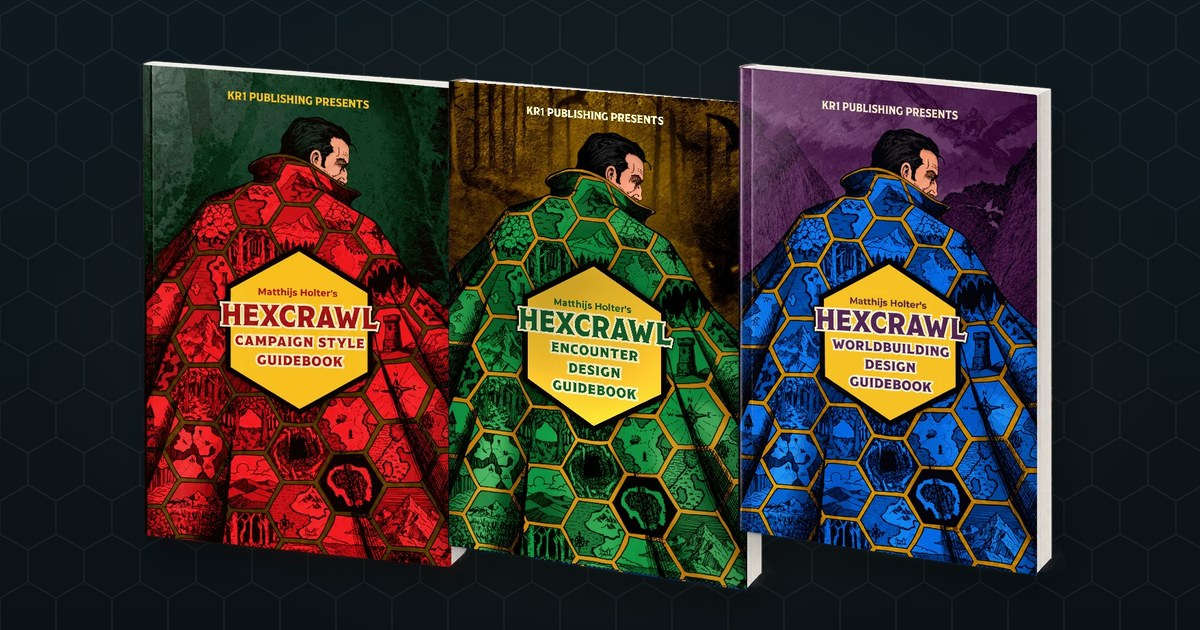
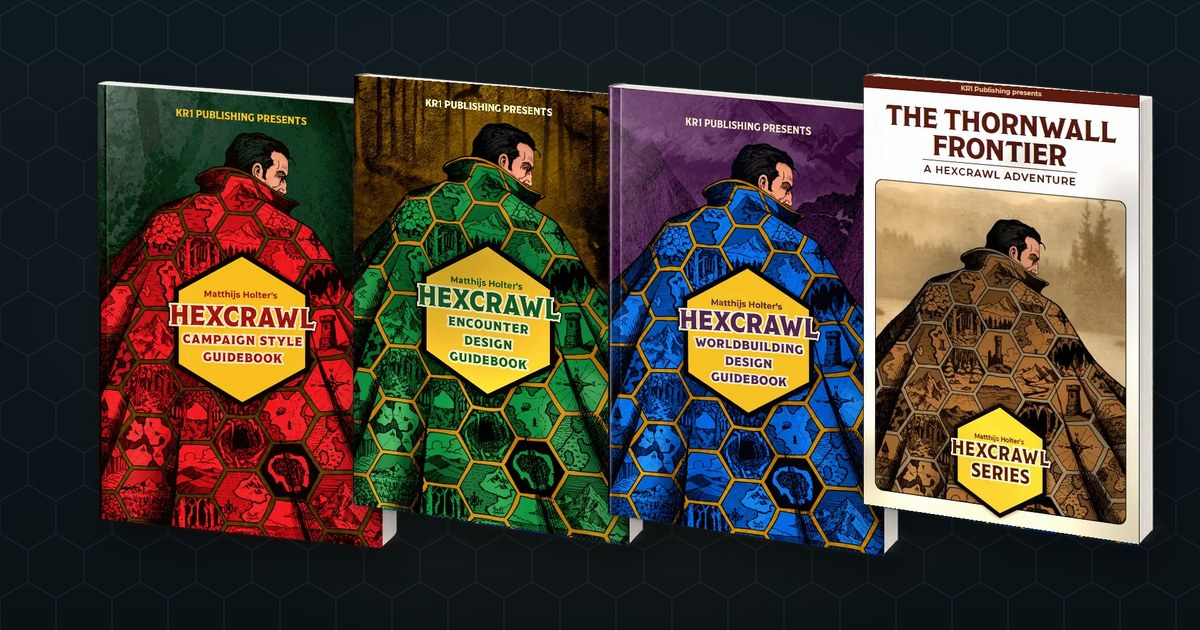
Hexcrawl page: add The Thornwall Frontier cover and mockup, four books in hero and share image
Claude-Session: https://claude.ai/code/session_01Go6ret7jCLgDqqds4EMTee

diff --git a/hexcrawl.html b/hexcrawl.html
@@ -13,7 +13,7 @@
 <meta property="og:image" content="https://www.kr1publishing.com/img/series/og-hexcrawl.jpg">
 <meta property="og:image:width" content="1200">
 <meta property="og:image:height" content="630">
-<meta property="og:image:alt" content="The three Hexcrawl guidebooks by Matthijs Holter">
+<meta property="og:image:alt" content="The four Hexcrawl books by Matthijs Holter">
 <meta property="og:url" content="https://www.kr1publishing.com/hexcrawl">
 <meta name="twitter:card" content="summary_large_image">
 <meta name="twitter:title" content="Hexcrawl: wilderness campaigns where the journey is the adventure">
@@ -130,9 +130,10 @@ footer a{color:var(--acc);text-decoration:none;margin:0 10px;display:inline-bloc
 footer a:hover{text-decoration:underline}
 
 
-.fan img:nth-child(1){left:2%;transform:rotate(-7deg);bottom:8px}
-.fan img:nth-child(2){left:27%;transform:rotate(0);bottom:26px;z-index:2}
-.fan img:nth-child(3){left:52%;transform:rotate(7deg);bottom:8px;z-index:3}
+.fan img:nth-child(1){left:0;transform:rotate(-8deg);bottom:10px}
+.fan img:nth-child(2){left:18%;transform:rotate(-2deg);bottom:22px;z-index:2}
+.fan img:nth-child(3){left:36%;transform:rotate(4deg);bottom:12px;z-index:3}
+.fan img:nth-child(4){left:54%;transform:rotate(9deg);bottom:0;z-index:4}
 .hexmap{display:grid;grid-template-columns:repeat(3,1fr);gap:14px 10px;max-width:640px;margin:36px auto -40px}
 .hexmap .hx{aspect-ratio:1/1.12;clip-path:polygon(50% 0,100% 25%,100% 75%,50% 100%,0 75%,0 25%);background:var(--card);display:flex;flex-direction:column;align-items:center;justify-content:center;text-align:center;padding:0 16%;text-decoration:none;transition:background .15s}
 .hexmap .hx:nth-child(-n+3){transform:translateX(-25%)}
@@ -183,6 +184,7 @@ footer a:hover{text-decoration:underline}
     <img src="/img/series/hexcrawl-campaign.webp" alt="Hexcrawl Campaign Style Guidebook" width="517" height="760">
     <img src="/img/series/hexcrawl-encounter.webp" alt="Hexcrawl Encounter Design Guidebook" width="487" height="760">
     <img src="/img/series/hexcrawl-worldbuilding.webp" alt="Hexcrawl Worldbuilding Design Guidebook" width="487" height="760">
+    <img src="/img/series/hexcrawl-thornwall.webp" alt="The Thornwall Frontier" width="487" height="760">
   </div>
 </div></div></header>
 
@@ -225,7 +227,7 @@ footer a:hover{text-decoration:underline}
 
 <section id="books"><div class="in">
   <div class="center"><div class="kicker">The books</div><h2>What is <em>in each one</em></h2></div>
-  <div class="books"><article class="book" id="b1"><img src="/img/covers/hexcrawl-campaign.jpg" alt="Hexcrawl Campaign Style Guidebook cover" loading="lazy"><div><div class="num">Book one</div><h3>Hexcrawl: Campaign Style Guidebook</h3><p>The method. How to build a map worth crossing, what a day of travel costs a party, and how to keep the journey interesting at the table.</p><ul><li>A complete hexcrawl campaign framework and six core principles</li><li>Step-by-step exploration turn procedures</li><li>Tools for hex maps, keyed locations and encounter tables</li><li>A sandbox starter region for immediate play</li></ul><a class="btn" href="https://www.drivethrurpg.com/en/product/562366?affiliate_id=927841&src=site_hexcrawl" target="_blank" rel="noopener">See it on DriveThruRPG</a><div class="meta">62 pages &middot; 2,650+ sold &middot; PDF and softcover</div></div></article><article class="book" id="b2"><img src="/img/covers/hexcrawl-encounter.jpg" alt="Hexcrawl Encounter Design Guidebook cover" loading="lazy"><div><div class="num">Book two</div><h3>Hexcrawl: Encounter Design Guidebook</h3><p>What the party meets out there, and why it is there. Encounters that reveal the world, force choices and connect across sessions.</p><ul><li>The Encounter Trifecta, a quick test for every encounter</li><li>The 60/40 rule for random encounter tables</li><li>The layering method for linking encounters across sessions</li><li>Pacing encounters across the exploration day</li></ul><a class="btn" href="https://www.drivethrurpg.com/en/product/566553?affiliate_id=927841&src=site_hexcrawl" target="_blank" rel="noopener">See it on DriveThruRPG</a><div class="meta">2,100+ sold &middot; PDF and softcover</div></div></article><article class="book" id="b3"><img src="/img/covers/hexcrawl-worldbuilding.jpg" alt="Hexcrawl Worldbuilding Design Guidebook cover" loading="lazy"><div><div class="num">Book three</div><h3>Hexcrawl: Worldbuilding Design Guidebook</h3><p>A region a table can believe in, built in an evening. Every hex points to at least one other: what caused it, or what it causes.</p><ul><li>The six-step build, a playable region in about ninety minutes</li><li>Three facts and a twist for session zero</li><li>Faction traces players find as physical evidence</li><li>The Greymire, a worked example from blank page to session one</li></ul><a class="btn" href="https://www.drivethrurpg.com/en/product/575993?affiliate_id=927841&src=site_hexcrawl" target="_blank" rel="noopener">See it on DriveThruRPG</a><div class="meta">76 pages &middot; 1,650+ sold &middot; PDF and softcover</div></div></article><article class="book" id="b4"><div class="ph">The Thornwall Frontier<br><br>Book four</div><div><div class="num">Book four</div><h3>The Thornwall Frontier</h3><p>Matthijs Holter's own starting region. Thirty hexes, ready to run with the method from the first three books, so you can sit down and play.</p><ul><li>A 30-hex frontier region built with the series method</li><li>Ready for session one</li><li>Works with books one to three, or on its own</li></ul><a class="btn" href="https://www.drivethrurpg.com/en/product/584427?affiliate_id=927841&src=site_hexcrawl" target="_blank" rel="noopener">See it on DriveThruRPG</a><div class="meta">450+ sold &middot; PDF out now, print coming</div></div></article></div>
+  <div class="books"><article class="book" id="b1"><img src="/img/covers/hexcrawl-campaign.jpg" alt="Hexcrawl Campaign Style Guidebook cover" loading="lazy"><div><div class="num">Book one</div><h3>Hexcrawl: Campaign Style Guidebook</h3><p>The method. How to build a map worth crossing, what a day of travel costs a party, and how to keep the journey interesting at the table.</p><ul><li>A complete hexcrawl campaign framework and six core principles</li><li>Step-by-step exploration turn procedures</li><li>Tools for hex maps, keyed locations and encounter tables</li><li>A sandbox starter region for immediate play</li></ul><a class="btn" href="https://www.drivethrurpg.com/en/product/562366?affiliate_id=927841&src=site_hexcrawl" target="_blank" rel="noopener">See it on DriveThruRPG</a><div class="meta">62 pages &middot; 2,650+ sold &middot; PDF and softcover</div></div></article><article class="book" id="b2"><img src="/img/covers/hexcrawl-encounter.jpg" alt="Hexcrawl Encounter Design Guidebook cover" loading="lazy"><div><div class="num">Book two</div><h3>Hexcrawl: Encounter Design Guidebook</h3><p>What the party meets out there, and why it is there. Encounters that reveal the world, force choices and connect across sessions.</p><ul><li>The Encounter Trifecta, a quick test for every encounter</li><li>The 60/40 rule for random encounter tables</li><li>The layering method for linking encounters across sessions</li><li>Pacing encounters across the exploration day</li></ul><a class="btn" href="https://www.drivethrurpg.com/en/product/566553?affiliate_id=927841&src=site_hexcrawl" target="_blank" rel="noopener">See it on DriveThruRPG</a><div class="meta">2,100+ sold &middot; PDF and softcover</div></div></article><article class="book" id="b3"><img src="/img/covers/hexcrawl-worldbuilding.jpg" alt="Hexcrawl Worldbuilding Design Guidebook cover" loading="lazy"><div><div class="num">Book three</div><h3>Hexcrawl: Worldbuilding Design Guidebook</h3><p>A region a table can believe in, built in an evening. Every hex points to at least one other: what caused it, or what it causes.</p><ul><li>The six-step build, a playable region in about ninety minutes</li><li>Three facts and a twist for session zero</li><li>Faction traces players find as physical evidence</li><li>The Greymire, a worked example from blank page to session one</li></ul><a class="btn" href="https://www.drivethrurpg.com/en/product/575993?affiliate_id=927841&src=site_hexcrawl" target="_blank" rel="noopener">See it on DriveThruRPG</a><div class="meta">76 pages &middot; 1,650+ sold &middot; PDF and softcover</div></div></article><article class="book" id="b4"><img src="/img/covers/thornwall.jpg" alt="The Thornwall Frontier cover" loading="lazy"><div><div class="num">Book four</div><h3>The Thornwall Frontier</h3><p>Matthijs Holter's own starting region. Thirty hexes, ready to run with the method from the first three books, so you can sit down and play.</p><ul><li>A 30-hex frontier region built with the series method</li><li>Ready for session one</li><li>Works with books one to three, or on its own</li></ul><a class="btn" href="https://www.drivethrurpg.com/en/product/584427?affiliate_id=927841&src=site_hexcrawl" target="_blank" rel="noopener">See it on DriveThruRPG</a><div class="meta">450+ sold &middot; PDF out now, print coming</div></div></article></div>
   <div class="center" style="margin-top:34px">
     <a class="btn" href="https://www.drivethrurpg.com/en/product/566554?affiliate_id=927841&src=site_hexcrawl" target="_blank" rel="noopener">Get the Complete Playkit</a>
     <p class="note">The bundle on DriveThruRPG only charges you for the books you do not already own.</p>

diff --git a/index.html b/index.html
@@ -521,7 +521,7 @@
     <p class="lead narrow" style="color:var(--muted)">Every series has its own page with what is in each book, who made it and where to get it.</p></div>
     <div class="proj">
       <a href="/westmarches"><img src="/img/series/og-westmarches.jpg" alt="The four West Marches books" loading="lazy"><div class="pjb"><div class="pk">Four books &middot; 8,200+ sold</div><h3>West Marches</h3><p>Run one open campaign for more players than fit at your table. The Guidebook, the GM Workbook, the Party Ledger and the Player Journal.</p><span class="go">See West Marches &rarr;</span></div></a>
-      <a href="/hexcrawl"><img src="/img/series/og-hexcrawl.jpg" alt="The Hexcrawl guidebooks by Matthijs Holter" loading="lazy"><div class="pjb"><div class="pk">Matthijs Holter &middot; 6,900+ sold</div><h3>Hexcrawl</h3><p>Wilderness campaigns where the journey is the adventure. Campaign Style, Encounter Design, Worldbuilding Design and The Thornwall Frontier.</p><span class="go">See Hexcrawl &rarr;</span></div></a>
+      <a href="/hexcrawl"><img src="/img/series/og-hexcrawl.jpg" alt="The four Hexcrawl books by Matthijs Holter" loading="lazy"><div class="pjb"><div class="pk">Matthijs Holter &middot; 6,900+ sold</div><h3>Hexcrawl</h3><p>Wilderness campaigns where the journey is the adventure. Campaign Style, Encounter Design, Worldbuilding Design and The Thornwall Frontier.</p><span class="go">See Hexcrawl &rarr;</span></div></a>
       <a href="/grunder"><img src="/img/series/og-grunder.jpg" alt="Gr&uuml;nder: Business Adventure Game" loading="lazy"><div class="pjb"><div class="pk">Petter Fornes &middot; OSR one-shot</div><h3>Gr&uuml;nder</h3><p>Grab a serial killer's hoard before thirty soldiers do. Whatever you carry out is your start-up capital. Into the Odd rules.</p><span class="go">See Gr&uuml;nder &rarr;</span></div></a>
     </div>
   </div>
